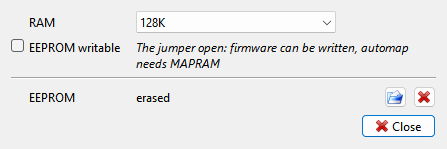
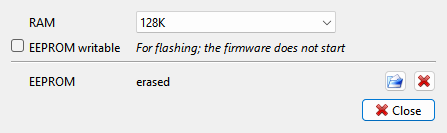
divmmc: one model, plain divMMC; the SPI port on the board's own oscillator (720 ns a byte), so esxDOS's zero fill reaches the card; EEPROM write 3 ms a byte (~26 s to flash); jumper hint in one line

diff --git a/src/libxpeccy/divmmc.c b/src/libxpeccy/divmmc.c
@@ -1,6 +1,7 @@
 // divMMC, after Mario Prato's CPLD source (divmmc.vhd v1.0, 2012-11-22) and his
-// 2013 schematic. The names below are the source's: mapcond and automap are its
-// two automapper flip-flops, conmem/mapram/bank its port #E3 register.
+// 2013 schematic, with the SPI port on a clock of its own as the later boards have
+// it. The names below are the source's: mapcond and automap are its two automapper
+// flip-flops, conmem/mapram/bank its port #E3 register.
 
 #include "divmmc.h"
 
@@ -8,17 +9,17 @@
 #include <stdlib.h>
 #include <string.h>
 
-#define DIV_NO_XFER	(-(1LL << 60))	// the start of a transfer long gone
-
-DivMMC* div_create(Memory* mem, void* host, long long (*edge)(void*), long long (*ns)(void*)) {
+DivMMC* div_create(Memory* mem, void* host, long long (*ns)(void*)) {
 	DivMMC* div = (DivMMC*)calloc(1, sizeof(DivMMC));
 	if (!div) return NULL;
 	div->mem = mem;
 	div->host = host;
-	div->edge = edge;
 	div->ns = ns;
 	div->pages = 16;
-	div->tWC = 10000;		// AT28C64B: 10 ms at most, the only figure given
+	// AT28C64B: the datasheet gives 10 ms at most and no typical figure. Owners
+	// flash the 8K by ESXMMC.TAP (a byte at a time) in seconds to tens of seconds,
+	// never a minute: 3 ms a byte, ~25 s
+	div->tWC = 3000;
 	memset(div->data, 0xff, DIV_EE_SIZE);	// an erased EEPROM
 	div->card[0] = sdc_create_spec();
 	div->card[1] = sdc_create_spec();
@@ -46,10 +47,9 @@ static void div_spi_reset(DivMMC* div) {
 	div->cs = 3;
 	div->card[0]->cs = 1;
 	div->card[1]->cs = 1;
-	div->spiS = DIV_NO_XFER;
+	div->spiEnd = 0;
 	div->spiRes = 0xff;
 	div->spiLat = 0xff;
-	div->spiNxt = 0xff;
 }
 
 void div_reset(DivMMC* div) {
@@ -248,16 +248,11 @@ int div_m1(DivMMC* div, int adr) {
 	return was != div->shown;
 }
 
-// SPI. The engine runs on the CPU clock (the edge connector's, so a wait state
-// that stops the clock stops it too). Timed from T1 of the I/O cycle, t, against
-// S, the start of the transfer in progress:
-//   OUT: lost when t-S <= 14, chained when 15..17 (S += 16), started at >= 18
-//   IN:  starts nothing when t-S <= 15, starts at >= 16 (S = max(S+18, t))
-// An IN reads the byte the transfer in progress got when t-S >= 16, otherwise the
-// one before; it sends what the shifter was left with: the last byte written
-// shifted out seven times with ones behind, so #7F after an even byte, else #FF.
-// (Derived edge by edge from the CPLD's IDLE/SAMPLE/TRANSMIT states; the two
-// edge races, an OUT at 15 and an IN at 16, are taken.)
+// SPI, on the board's own oscillator (as divTIESUS's divmmc_mcleod.v has it): an
+// OUT sends its byte, an IN sends #FF and reads the byte the transfer before it
+// got. Either is taken only when the port is idle: an OUT while a byte is still
+// going is lost, an IN then reads the same byte again and starts nothing. At
+// 3.5 MHz the closest two accesses come (OUT pairs, 12 T) are 3.4 us apart.
 
 static int div_card_xfer(DivMMC* div, int mosi) {
 	int miso = 0xff;	// no card driving it: pulled up
@@ -268,16 +263,12 @@ static int div_card_xfer(DivMMC* div, int mosi) {
 }
 
 static int div_spi(DivMMC* div, int out, int val) {
-	long long t = div->edge(div->host);
-	long long d = t - div->spiS;
-	if (d >= 16) div->spiLat = div->spiRes;
-	int ret = div->spiLat;
-	if (out ? (d < 15) : (d < 16)) return ret;
-	int send = out ? (val & 0xff) : div->spiNxt;
-	div->spiRes = div_card_xfer(div, send);
-	div->spiNxt = ((send & 1) << 7) | 0x7f;
-	div->spiS = (d >= 18) ? t : (div->spiS + (out ? 16 : 18));
-	return ret;
+	long long now = div->ns(div->host);
+	if (now < div->spiEnd) return div->spiLat;
+	if (!out) div->spiLat = div->spiRes;
+	div->spiRes = div_card_xfer(div, out ? (val & 0xff) : 0xff);
+	div->spiEnd = now + DIV_SPI_NS;
+	return div->spiLat;
 }
 
 int div_out(DivMMC* div, int port, int val) {

diff --git a/src/libxpeccy/divmmc.h b/src/libxpeccy/divmmc.h
@@ -3,8 +3,11 @@
 // divMMC: an SD card interface on the Spectrum's edge connector. 8K of EEPROM and
 // 128K (or 512K) of SRAM paged over #0000-#3FFF by port #E3 and by an automapper
 // that watches the opcode fetches; two card slots on an SPI port (#E7 selects,
-// #EB moves a byte). The model is the board Mario Prato published (CPLD source
-// divmmc.vhd v1.0, 2012) that the divMMC EnJOY! boards are built on.
+// #EB moves a byte). The memory and the automapper are the board Mario Prato
+// published (CPLD source divmmc.vhd v1.0, 2012), which the boards sold since are
+// built on. Their SPI port runs on an oscillator of its own (divTIESUS: half of
+// 25 MHz), not on the Spectrum's clock as Prato's does: a byte is done long before
+// a Z80 at a usual clock can ask for the next one.
 
 #ifdef __cplusplus
 extern "C" {
@@ -20,17 +23,15 @@ extern "C" {
 // models
 enum {
 	DIV_NONE = 0,
-	DIV_ENJOY		// divMMC EnJOY! (Prato's logic)
+	DIV_MMC
 };
 
-// SPI engines (the board's own, its clock and what a read sends)
-enum {
-	DIV_SPI_PRATO = 0	// the CPLD's, on the Spectrum's clock: 1 T to sample, 16 T a byte
-};
+// a byte on the SPI port: 16 cycles of a 25 MHz oscillator (SCK 12.5 MHz) and two
+// to take the request
+#define DIV_SPI_NS	720
 
 typedef struct {
 	int model;		// DIV_NONE: not fitted
-	int spi;		// DIV_SPI_*
 	int pages;		// 8K SRAM pages fitted: 16 or 64
 	int eeWrite;		// jumper J1 open: the EEPROM takes writes, automap needs MAPRAM
 	int tWC;		// the EEPROM's write cycle, us
@@ -46,10 +47,9 @@ typedef struct {
 
 	// SPI: #E7 bits 1,0 = /CS of card 1,0; the engine (div_spi in divmmc.c)
 	int cs;
-	long long spiS;		// the bus clock edge the transfer in progress started at
-	int spiRes;		// what the card gave in it
-	int spiLat;		// what an IN reads
-	int spiNxt;		// what an IN sends: what the last transfer left in the shifter
+	long long spiEnd;	// the transfer going on ends (ns)
+	int spiRes;		// what the card gave in the last transfer
+	int spiLat;		// what an IN reads: taken from spiRes by the last IN that started one
 
 	// the NMI button: /NMI is pulled while it is held and mapcond is low
 	int nmiBtn;
@@ -75,14 +75,13 @@ typedef struct {
 	unsigned char data[DIV_EE_SIZE + DIV_RAM_MAX];	// the EEPROM, then the SRAM
 	SDCard* card[2];
 
-	// the machine: its memory map, and its clocks
+	// the machine: its memory map, and its time
 	Memory* mem;
 	void* host;
-	long long (*edge)(void*);	// bus clock edges since the machine started (no wait states)
-	long long (*ns)(void*);		// time, ns
+	long long (*ns)(void*);		// ns since the machine started
 } DivMMC;
 
-DivMMC* div_create(Memory* mem, void* host, long long (*edge)(void*), long long (*ns)(void*));
+DivMMC* div_create(Memory* mem, void* host, long long (*ns)(void*));
 void div_destroy(DivMMC*);
 void div_set_model(DivMMC*, int model, int pages);
 

diff --git a/src/libxpeccy/spectrum.c b/src/libxpeccy/spectrum.c
@@ -84,13 +84,7 @@ static void comp_m1x(void* ptr, int adr) {
 	if (comp->div->model) comp_div_fetch(comp, adr);
 }
 
-// the board's clocks: the bus clock's edges (a contended T is not one) at T1 of
-// the i/o cycle it is asked in, and time
-static long long comp_div_edge(void* ptr) {
-	Computer* comp = (Computer*)ptr;
-	return comp->ioEdge;
-}
-
+// the board's time: its oscillators run whatever the CPU does
 static long long comp_div_ns(void* ptr) {
 	Computer* comp = (Computer*)ptr;
 	return (long long)((double)(comp->tickTotal + comp->cpu->t) * comp->nsPerTick);
@@ -233,10 +227,8 @@ static void memwr_watched(Computer* comp, int adr, int val) {
 // the ray settled (iord/iowr).
 void zx_cont_delay(Computer* comp) {
 	int wdots = vid_wait_dots(comp->vid, 5 << 14, 0);	// video is already at end of wait cycle
-	int was = comp->cpu->t;
 	comp_vid_to_lazy(comp, comp->cpu->t + comp->contTicks[wdots]);
 	comp->cpu->t = res4;
-	comp->contWait += comp->cpu->t - was;
 }
 
 void zx_free_ticks(Computer* comp, int t) {
@@ -402,7 +394,6 @@ int comp_pwatch_val(Computer* comp, int idx) {
 int iord(int port, void* ptr) {
 	Computer* comp = (Computer*)ptr;
 	comp_run_io(comp);
-	comp->ioEdge = comp->tickTotal + comp->cpu->t - comp->contWait;	// before the cycle's waits
 	if (comp->flgCNTI) {
 		// fuse reads the port after both halves of the i/o cycle have
 		// been contended (periph.c readport), so do the waiting first
@@ -464,7 +455,6 @@ static inline void iowr_out(Computer* comp, int port, int val) {
 void iowr(int port, int val, void* ptr) {
 	Computer* comp = (Computer*)ptr;
 	comp_run_io(comp);
-	comp->ioEdge = comp->tickTotal + comp->cpu->t - comp->contWait;
 	comp->flgBDI = (comp->flgDOS && (comp->dif->type == DIF_BDI)) ? 1 : 0;
 	if (comp->flgCNTI) {
 		comp_vid_to_t(comp);		// video to current T
@@ -624,7 +614,7 @@ Computer* compCreate() {
 	comp->ide->smuc.cmos = &comp->cmos;
 	comp->sdc = sdcCreate();
 	comp->slot = sltCreate();
-	comp->div = div_create(comp->mem, comp, comp_div_edge, comp_div_ns);
+	comp->div = div_create(comp->mem, comp, comp_div_ns);
 	comp->cpu->xm1x = comp_m1x;
 // sound
 	comp->ts = tsCreate(TS_NONE,SND_AY,SND_NONE);

diff --git a/src/libxpeccy/filetypes/szx_ext.c b/src/libxpeccy/filetypes/szx_ext.c
@@ -316,10 +316,9 @@ static const szxField fld_div[] = {
 	FLD(DivMMC, mapcond),
 	FLD(DivMMC, automap),
 	FLD(DivMMC, cs),
-	FLD(DivMMC, spiS),
+	FLD(DivMMC, spiEnd),
 	FLD(DivMMC, spiRes),
 	FLD(DivMMC, spiLat),
-	FLD(DivMMC, spiNxt),
 	FLD(DivMMC, nmiLine),
 	FLD(DivMMC, eeWrite),
 	FLD(DivMMC, ee),
@@ -424,10 +423,6 @@ static const szxField fld_tape[] = {
 static void ext_gs_save(szxBuf*, Computer*);
 
 // a divMMC's clocks, as the machine has them now
-static long long ext_div_edge(Computer* comp) {
-	return comp->tickTotal + comp->cpu->t - comp->contWait;
-}
-
 static long long ext_div_ns(Computer* comp) {
 	return (long long)((double)(comp->tickTotal + comp->cpu->t) * comp->nsPerTick);
 }
@@ -436,6 +431,7 @@ static long long ext_div_ns(Computer* comp) {
 static void ext_div_times(DivMMC* div, long long d) {
 	if (div->ee.loadEnd) div->ee.loadEnd += d;
 	if (div->ee.busyEnd) div->ee.busyEnd += d;
+	div->spiEnd += d;
 }
 
 static void ext_div(Computer* comp, const unsigned char* p, size_t n) {
@@ -443,7 +439,6 @@ static void ext_div(Computer* comp, const unsigned char* p, size_t n) {
 	if (!div->model) return;
 	DivMMC tmp = *div;
 	fld_get(&tmp, fld_div, p, n);
-	tmp.spiS += ext_div_edge(comp);
 	ext_div_times(&tmp, ext_div_ns(comp));
 	div->conmem = tmp.conmem;
 	div->mapram = tmp.mapram;
@@ -453,10 +448,9 @@ static void ext_div(Computer* comp, const unsigned char* p, size_t n) {
 	div->cs = tmp.cs;
 	div->card[0]->cs = div->cs & 1;
 	div->card[1]->cs = (div->cs >> 1) & 1;
-	div->spiS = tmp.spiS;
+	div->spiEnd = tmp.spiEnd;
 	div->spiRes = tmp.spiRes;
 	div->spiLat = tmp.spiLat;
-	div->spiNxt = tmp.spiNxt;
 	div->nmiLine = tmp.nmiLine;
 	div->eeWrite = tmp.eeWrite;
 	div->ee = tmp.ee;
@@ -592,7 +586,6 @@ void szx_ext_save(szxBuf* b, Computer* comp) {
 		rec_fields(b, XR_SDC, comp->sdc, fld_sdc);
 	if (comp->div->model) {
 		DivMMC tmp = *comp->div;
-		tmp.spiS -= ext_div_edge(comp);
 		ext_div_times(&tmp, -ext_div_ns(comp));
 		rec_fields(b, XR_DIV, &tmp, fld_div);
 		for (i = 0; i < 2; i++)

diff --git a/src/xgui/options/setupwin.cpp b/src/xgui/options/setupwin.cpp
@@ -1308,7 +1308,7 @@ void SetupWin::applyMachine() {
 // divmmc: a board is put on, taken off or given other RAM with the power off, so
 // the machine comes up from its power-on with it. Left running, the machine would
 // meet a firmware that never started at its first error report or NMI.
-	int divModel = (divBox->currentIndex() && hw_takes_divmmc(comp->hw)) ? DIV_ENJOY : DIV_NONE;
+	int divModel = (divBox->currentIndex() && hw_takes_divmmc(comp->hw)) ? DIV_MMC : DIV_NONE;
 	int divPages = divRamBox->currentIndex() ? DIV_PAGES_MAX : 16;
 	bool divPower = (divModel != comp->div->model) || (divModel && (divPages != comp->div->pages));
 	if (divPower)
@@ -1860,7 +1860,7 @@ void SetupWin::buildDevices() {
 	sdRow << grid->itemAtPosition(grid->rowCount() - 1, 0)->widget() << sdSum << btn;
 
 	// a divMMC on the edge connector; its cards are the Drives menu's
-	divBox = devCombo(QStringList() << tr("None") << tr("divMMC EnJOY!"));
+	divBox = devCombo(QStringList() << tr("None") << tr("divMMC"));
 	divBox->setObjectName("divBox");
 	xOptSheet dv;
 	divRamBox = devCombo(QStringList() << tr("128K") << tr("512K"));
@@ -1868,7 +1868,7 @@ void SetupWin::buildDevices() {
 	dv.field(tr("RAM"), divRamBox);
 	divWrBox = new QCheckBox;
 	divWrBox->setObjectName("divWrBox");
-	dv.check(divWrBox, tr("EEPROM writable"), tr("The jumper open: firmware can be written, automap needs MAPRAM"));
+	dv.check(divWrBox, tr("EEPROM writable"), tr("For flashing; the firmware does not start"));
 	dv.line();
 	divEeSum = new QLabel;
 	QWidget* ee = new QWidget;

diff --git a/tests/core/divmmc/main.c b/tests/core/divmmc/main.c
@@ -13,7 +13,7 @@
 // SDCARD1=img put cards in the slots (a name ending in .img is made blank, 1 MB);
 // NMIAT=n holds the NMI button through frame n; RESETAFTER=1 the state a reset
 // leaves, POWERAFTER=1 the state a power cycle leaves; EEOUT=file writes the
-// EEPROM after the run; TICKS=1 the T the program took.
+// EEPROM after the run; TICKS=1 the T the program took; MHZ=n the CPU clock (3.5).
 
 #include "../bench.h"
 
@@ -121,7 +121,7 @@ int main(int argc, char** argv) {
 	memSetSize(comp->mem, MEM_64K, MEM_32K);
 	if (!load_rom(comp, root, "48.rom"))
 		return 1;
-	compSetBaseFrq(comp, 3.5);
+	compSetBaseFrq(comp, getenv("MHZ") ? atof(getenv("MHZ")) : 3.5);
 	comp->resbank = RES_48;
 	comp->flgCNTI = 1;
 	comp_set_cont(comp, 1);
@@ -129,7 +129,7 @@ int main(int argc, char** argv) {
 	comp->vid->ula->early = 1;
 	comp->fbus = FBUS_NONE;
 	xhost_time_fixed = 1759665600;		// runs repeat
-	div_set_model(comp->div, DIV_ENJOY, getenv("RAM512") ? 64 : 16);
+	div_set_model(comp->div, DIV_MMC, getenv("RAM512") ? 64 : 16);
 	comp->div->eeWrite = getenv("JUMPER") ? 1 : 0;
 	const char* ee = getenv("EEPROM");
 	if (ee && !div_load_eeprom(comp->div, ee)) {

diff --git a/src/libxpeccy/spectrum.h b/src/libxpeccy/spectrum.h
@@ -197,9 +197,6 @@ typedef struct Computer {
 	int frmCount;		// frames since reset (for breakpoint conditions)
 	int tickCount;		// accumulate T
 	long long tickTotal;	// T since the machine was made: tickCount wraps in minutes
-	long long contWait;	// of those, T the ULA held the clock for (contention): the
-				// bus clock a board on the edge connector runs on stood still
-	long long ioEdge;	// that clock's edges at T1 of the i/o cycle going on (iord/iowr)
 	int intTaken;		// maskable interrupts the cpu has taken, for the debugger's spans
 	int frmtCount;		// accumulate T, but reset each INT
 	int hCount;		// T before HALT = frmtCount @ HALT

diff --git a/src/libxpeccy/hardware/common.c b/src/libxpeccy/hardware/common.c
@@ -42,7 +42,6 @@ void zx_contend_adr(Computer* comp, int adr, int mreq) {
 	int wdots = vid_wait_dots(comp->vid, adr, mreq);
 	if (!wdots) return;
 	comp->cpu->t += comp->contTicks[wdots];
-	comp->contWait += comp->contTicks[wdots];
 	comp_vid_to_t(comp);
 }
 

diff --git a/src/xcore/machines.cpp b/src/xcore/machines.cpp
@@ -98,7 +98,7 @@ static xMacWord diskTab[] = {
 };
 
 static xMacWord divTab[] = {
-	{"none", DIV_NONE}, {"enjoy", DIV_ENJOY}, {NULL, 0}
+	{"none", DIV_NONE}, {"divmmc", DIV_MMC}, {NULL, 0}
 };
 
 static xMacWord ideTab[] = {

diff --git a/docs/manual/disks.md b/docs/manual/disks.md
@@ -235,19 +235,20 @@ card, use `--sdcard <file or folder>` on the [command line](command-line.md).
 ```
 
 The divMMC is an SD card interface for the ZX Spectrum 48K, 128K, +2, +2A and +3, and the
-Pentagons take it on their ZX-BUS. The one
-emulated is the **divMMC EnJOY!** by ByteDelight, built on the original design by Mario
-Prato: 8 KB of EEPROM for the firmware, 128 KB or 512 KB of RAM, and two SD card slots. The
-firmware most people run on it is esxDOS, which loads `.tap`, `.sna`, `.z80` and `.trd` files
-from the card and adds dot commands to BASIC.
+Pentagons take it on their ZX-BUS. The one emulated follows Mario Prato's original design,
+which the boards sold since, such as the divMMC EnJOY!, are built on: 8 KB of EEPROM for the
+firmware, 128 KB or 512 KB of RAM, and two SD card slots. Its SD card port runs on a clock of
+its own and keeps up with the Z80 at any usual speed. The firmware most people run on it is
+esxDOS, which loads `.tap`, `.sna`, `.z80` and `.trd` files from the card and adds dot
+commands to BASIC.
 
 ### Setting it up
 
-1. On the **Machine** page of **Options**, set the **divMMC** row to **divMMC EnJOY!**.
+1. On the **Machine** page of **Options**, set the **divMMC** row to **divMMC**.
    The {icon}`settings` gear opens **Machine: divMMC**:
    - **RAM** - **128K** or **512K**.
    - **EEPROM writable** - the board's EEPROM jumper. Leave it off: on, the firmware can be
-     written, and the board stays out of the way until the firmware sets MAPRAM.
+     flashed from the Spectrum, and it does not start at a reset.
    - **EEPROM** - **erased** or **written**, and two buttons: {icon}`fileopen` load an
      image into the EEPROM, {icon}`cancel` erase it.
 2. Get the firmware. esxDOS is not shipped with the emulator: download it from

diff --git a/docs/manual/machines.md b/docs/manual/machines.md
@@ -196,7 +196,7 @@ set.
 | | **Disk** | **None**, **Beta Disk (WD1793)** or **+3 (uPD765)**; drives and the TR-DOS ROM in its window (see [Disks and drives](disks.md)) |
 | | **Hard disk** | the IDE interface; **Master** and **Slave** in its window |
 | | **SD card** | ZX Evolution only: the card in use |
-| | **divMMC** | 48K, 128K, +2, +2A, +3 and the Pentagons: **None** or **divMMC EnJOY!**; RAM, EEPROM jumper and the EEPROM image in its window (see [divMMC](disks.md#divmmc)) |
+| | **divMMC** | 48K, 128K, +2, +2A, +3 and the Pentagons: **None** or **divMMC**; RAM, EEPROM jumper and the EEPROM image in its window (see [divMMC](disks.md#divmmc)) |
 | | **Cartridge** | 48K and ALF only: the cartridge in use |
 | **Input** | **Joystick** | **None**, **Kempston 5-bit**, **Kempston 8-bit** |
 | | **Mouse** | **None** or **Kempston mouse**; sensitivity and wheel in its window |
